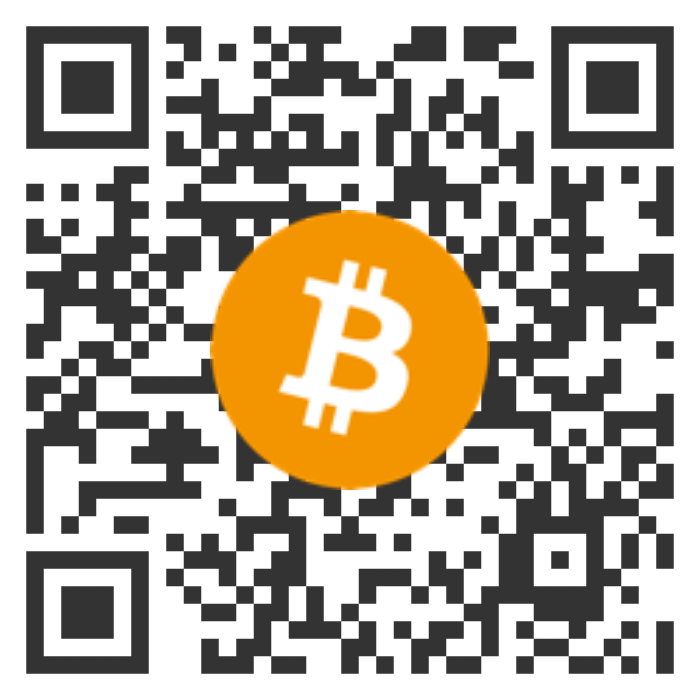
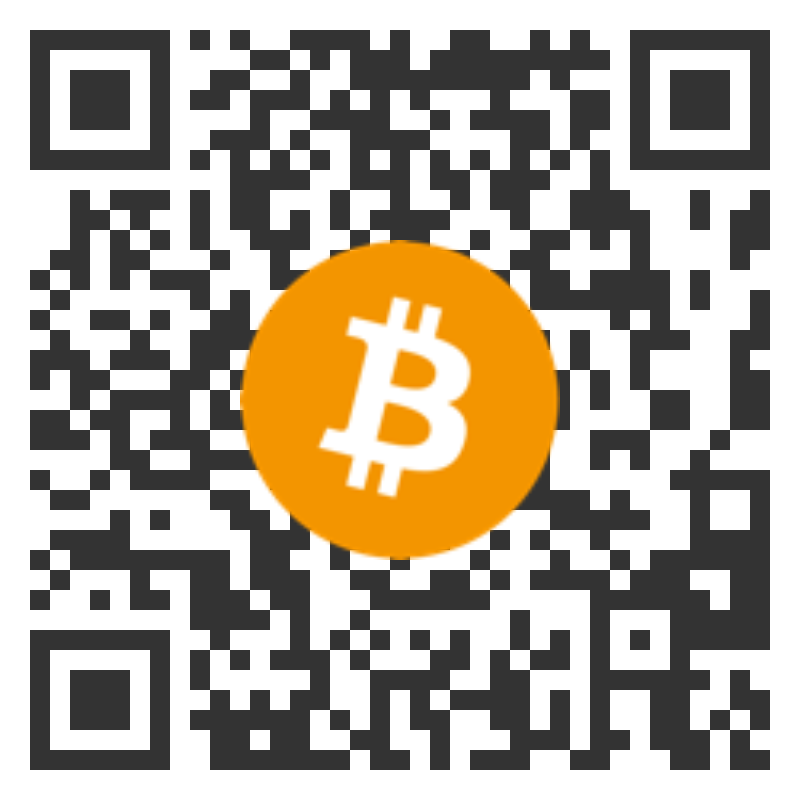
Update incorrect BTC walled Address and image

diff --git a/api/pages/settings.php b/api/pages/settings.php
@@ -271,7 +271,7 @@ if (file_exists('config' . DIRECTORY_SEPARATOR . 'config.php')) {
                                                 <div class="col-lg-4 col-xs-12">
                                                     <div class="lazyload qr-code" data-src="plugins/images/Bitcoin_QR_code.png"></div>
                                                     <div class="clearfix"></div>
-                                                    <code>1JLWKSSGDDKDNLJPWBNXFQMCXI8UUOHZVV</code>
+                                                    <code>18dNtPKgor6pV5DJhYNqFxLJJ2BKugo4K9</code>
                                                 </div>
                                                 <div class="col-lg-4 col-xs-12">
                                                     <div class="lazyload qr-code" data-src="plugins/images/Litecoin_QR_code.png"></div>
